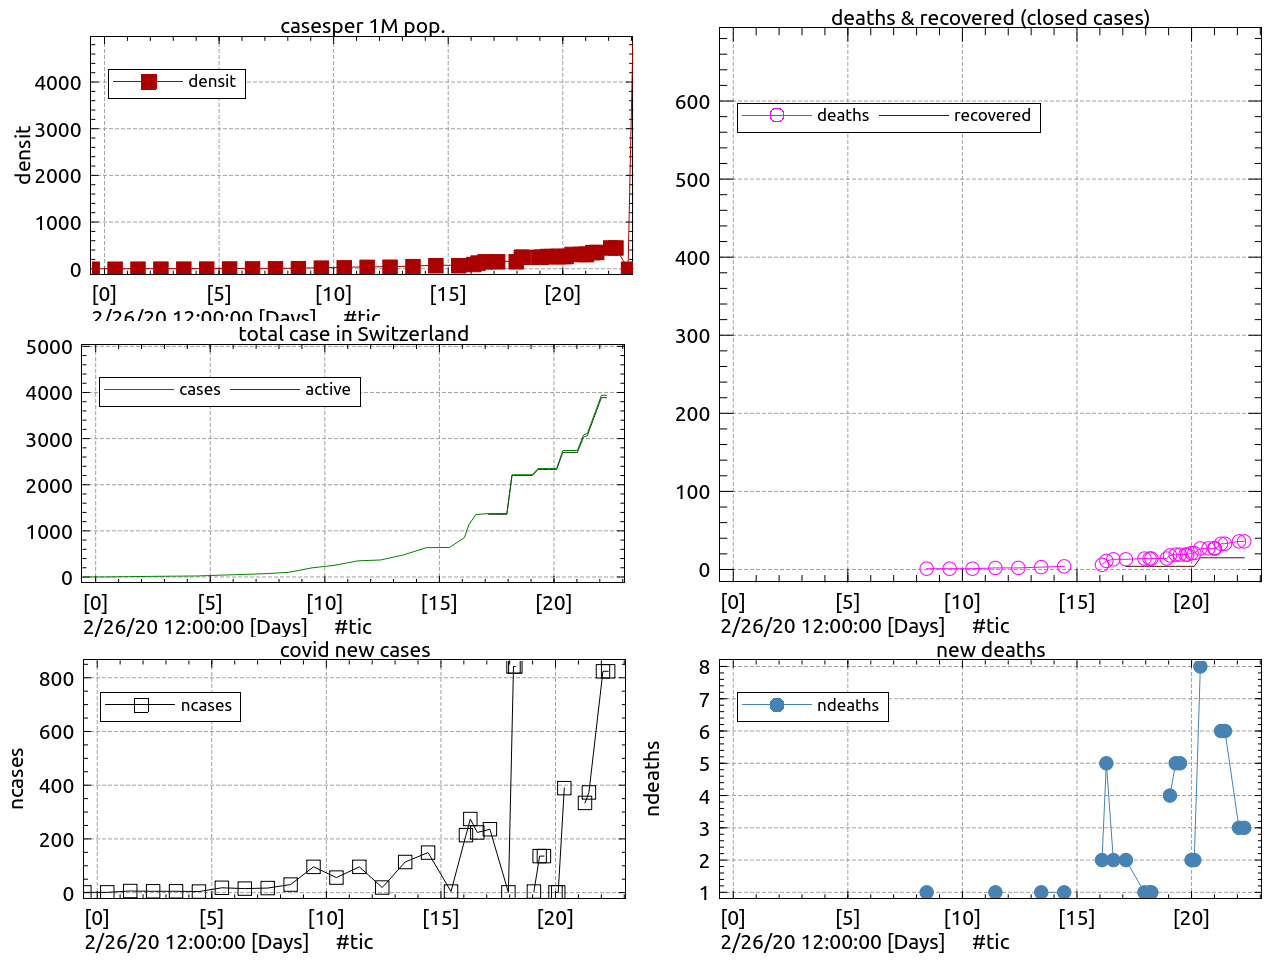
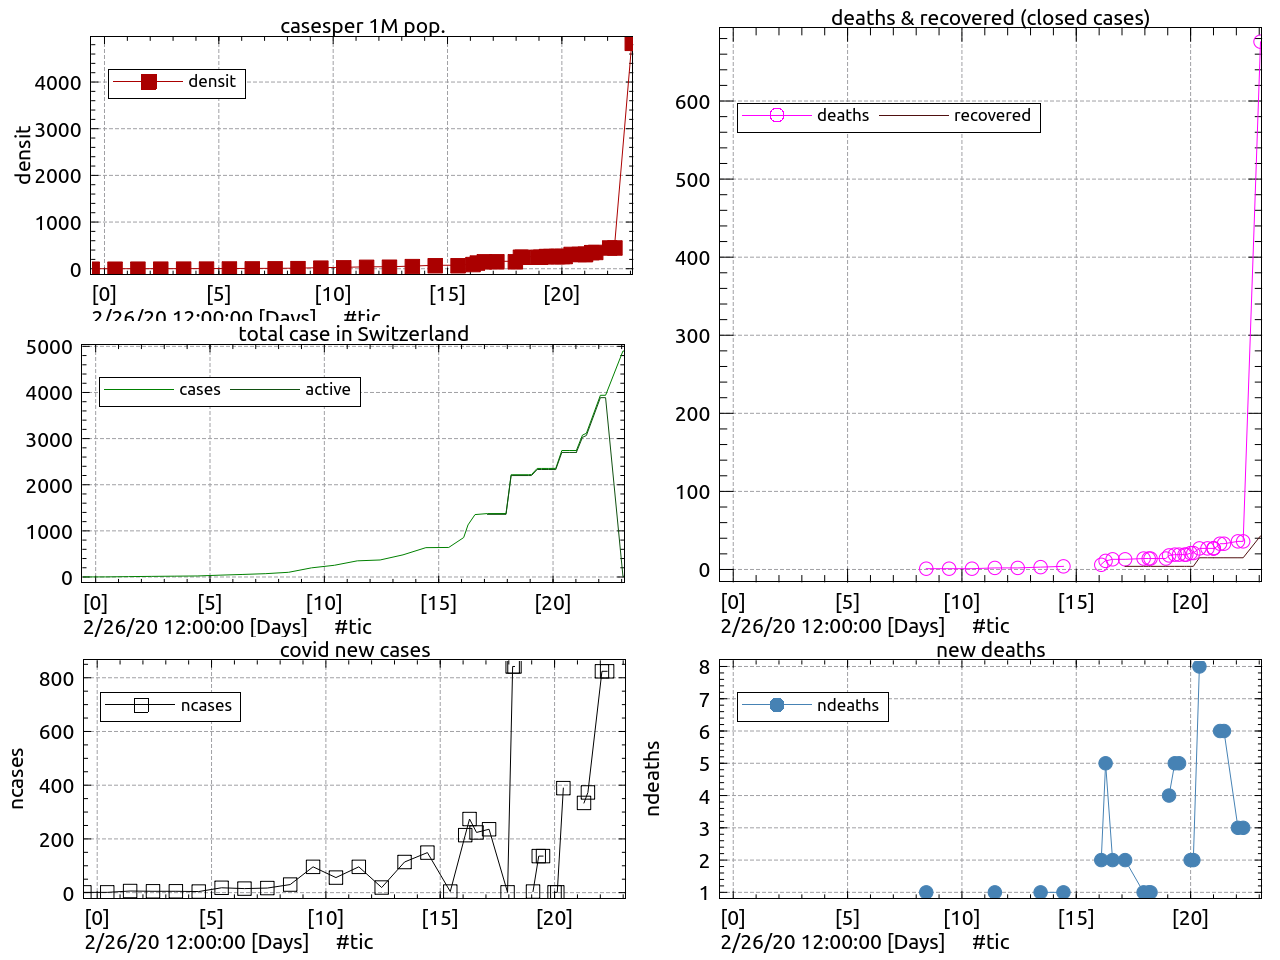
pandemy status on 03/20/20 15:29:55

diff --git a/README.md b/README.md
@@ -1,6 +1,6 @@
 # README: corona virus daily status in Switzerland ...
 
-## on 03/20/20 14:22:26 ([snapshot](https://ipfs.io/ipfs/QmY4pmA4H2abNWnWZpw9NNz1vS577dF9u4Ap2ZYt1Jh1GC))
+## on 03/20/20 15:29:55 ([snapshot](https://ipfs.io/ipfs/QmY4pmA4H2abNWnWZpw9NNz1vS577dF9u4Ap2ZYt1Jh1GC))
 
  4840 cases per 1M pop,<br>
  4898 Total cases in Switzerland (15 actives)
@@ -8,9 +8,19 @@
  +676 deaths,
  43 recovered (resurected ?)
 
-last update : <https://ipfs.blockringtm.ml/ipfs/Qmc4ytrMUSgxqriLofL7u18e9Uix12a11LTTUQzXcUqSfU/covid19.html>
+last update : <https://ipfs.blockringtm.ml/ipfs/QmcjfzMLYcZFjaSBYBUhYEd1FyqEzZGng3A13jxxLKRYkK/covid19.html>
+
 
 Every Sunday: 1:30pm 1:45pm Meditation & OM chanting ([#OMEKSAATH][OM]) CET https://www.facebook.com/events/138981234204300
+
+
+TODAY AND ALL THE FOLLOWING DAYS : AT [12:30H AND 21:00H][CLAP]
+to be solidaire and to encourage our medical workers for their protection and service,
+lets' get out on our balcony or at our windows and clap to express our immense gratitude
+Please pass this message arround and take care of yourself and love ones.
+
+[OM]: https://qwant.com/?q=%26g+%23OMEKSAATH
+[CLAP]: https://www.facebook.com/mgcombs/posts/10223045570354511?__cft__[0]=AZU1uoBTRJPo_ZEqs8vur5Vri1R96Mio1M-vFXGeuWxFhfQHMHY6_zYneCuXuez2Ojcj9K2Ph7AHwHYQvsmxphJqN-KWkpAuTph-dTy5h9pGEE-zRT6rqOZx5RfWRscw2vY&__tn__=%2CO%2CP-R
 
  ![charts](covid.png)
 
@@ -19,6 +29,7 @@ Every Sunday: 1:30pm 1:45pm Meditation & OM chanting ([#OMEKSAATH][OM]) CET http
 
 sources:
   - <https://twitter.com/BAG_OFSP_UFSP>
+  - <https://www.worldometers.info/coronavirus/country/switzerland/>
   - <https://www.bag.admin.ch/bag/fr/home/krankheiten/ausbrueche-epidemien-pandemien/aktuelle-ausbrueche-epidemien/novel-cov/situation-schweiz-und-international.html>
   - <https://en.wikipedia.org/wiki/2020_coronavirus_pandemic_in_Switzerland>
   - <https://www.who.int/emergencies/diseases/novel-coronavirus-2019/situation-reports/>
@@ -26,8 +37,8 @@ sources:
   - <https://michel47.github.io/covid19>
   - <https://github.com/michel47/covid19>
   - <https://duckduckgo.com/?q=switzerland+progression+coronavirus>
-  - <https://gateway.ipfs.io/ipfs/QmW1FtTyCVtYv71NvgdUenYxRhGkvBQM58c6B7kXbKqMvw>
+  - <https://gateway.ipfs.io/ipfs/QmSAFgdzPEQcHeEj59FYZQngW6qX9szaXx2hsxnucWKbkQ>
   - <https://gateway.ipfs.io/ipfs/QmY4pmA4H2abNWnWZpw9NNz1vS577dF9u4Ap2ZYt1Jh1GC>
-  - <https://gateway.ipfs.io/ipfs/Qmc4ytrMUSgxqriLofL7u18e9Uix12a11LTTUQzXcUqSfU>
+  - <https://gateway.ipfs.io/ipfs/QmcjfzMLYcZFjaSBYBUhYEd1FyqEzZGng3A13jxxLKRYkK>
   
 

diff --git a/covid19.md b/covid19.md
@@ -10,6 +10,7 @@
 - \[03/20/20]: /cases [QmUhwrMeVRT9V5dttpPa7zbToAinsNaH38BY47zoAMzR4P](https://cloudflare-ipfs.com/ipfs/QmY4pmA4H2abNWnWZpw9NNz1vS577dF9u4Ap2ZYt1Jh1GC) [data](/ipfs/QmcVT5hTUyCGKgeZfvvRzSPgXazPjWLMcG5gyH52NE7GKC/covid.yml),[csv](/ipfs/QmcVT5hTUyCGKgeZfvvRzSPgXazPjWLMcG5gyH52NE7GKC/covid.csv)
 - \[03/20/20]: /cases [QmR3cWmPDDQeuMLRy2HtLjqpEtTBJuXJQm39R5ViVuaVrV](https://cloudflare-ipfs.com/ipfs/QmY4pmA4H2abNWnWZpw9NNz1vS577dF9u4Ap2ZYt1Jh1GC) [data](/ipfs/Qmdod7WCFHfsumLtpfRbTFjY7rDX8PzrDk9SKGMqFQceRi/covid.yml),[csv](/ipfs/Qmdod7WCFHfsumLtpfRbTFjY7rDX8PzrDk9SKGMqFQceRi/covid.csv)
 - \[03/20/20]: 15/4898cases [QmW1FtTyCVtYv71NvgdUenYxRhGkvBQM58c6B7kXbKqMvw](https://cloudflare-ipfs.com/ipfs/QmY4pmA4H2abNWnWZpw9NNz1vS577dF9u4Ap2ZYt1Jh1GC) [data](/ipfs/QmZ7HPJFk1DFJiSFS2HK4xWz5ao7jbHCjLfMTT6PaPLAum/covid.yml),[csv](/ipfs/QmZ7HPJFk1DFJiSFS2HK4xWz5ao7jbHCjLfMTT6PaPLAum/covid.csv)
+- \[03/20/20]: 15/4898cases [QmSAFgdzPEQcHeEj59FYZQngW6qX9szaXx2hsxnucWKbkQ](https://cloudflare-ipfs.com/ipfs/QmY4pmA4H2abNWnWZpw9NNz1vS577dF9u4Ap2ZYt1Jh1GC) [data](/ipfs/QmQMxLXm8iYg9uVqaHWDTgd6GS2HPMgUXcbsirrtT5yRwi/covid.yml),[csv](/ipfs/QmQMxLXm8iYg9uVqaHWDTgd6GS2HPMgUXcbsirrtT5yRwi/covid.csv)
 - \[03/19/20]: 3888/3939cases [QmYaFJdczS8RAhbNCgTZH6fzpYk6zphpp1mLTbebTDKGUy](https://cloudflare-ipfs.com/ipfs/QmY4pmA4H2abNWnWZpw9NNz1vS577dF9u4Ap2ZYt1Jh1GC) [data](/ipfs/QmZBSfXg1hqQLAUfdtxP33Pyy4MvYjSu9PyyaAH7qUDGR4/covid.yml),[csv](/ipfs/QmZBSfXg1hqQLAUfdtxP33Pyy4MvYjSu9PyyaAH7qUDGR4/covid.csv)
 - \[03/19/20]: 3888/3939cases [QmWEacwbdMK642oLQ1Ddu6k4pHnPdWh3pJpNYFUMEV6mbf](https://cloudflare-ipfs.com/ipfs/QmY4pmA4H2abNWnWZpw9NNz1vS577dF9u4Ap2ZYt1Jh1GC) [data](/ipfs/QmTUabGFF3eA3ZfcHfwf649xLJu59pvVgErwGZnq4bwJ2c/covid.yml),[csv](/ipfs/QmTUabGFF3eA3ZfcHfwf649xLJu59pvVgErwGZnq4bwJ2c/covid.csv)
 - \[03/19/20]: 3888/3939cases [QmVVkeTjXbBGSTE1HnaEDLBuNDFPSjAjAG2sKdFcRyL5cg](https://cloudflare-ipfs.com/ipfs/QmY4pmA4H2abNWnWZpw9NNz1vS577dF9u4Ap2ZYt1Jh1GC) [data](/ipfs/QmPYhDh1vagW2K8To1tioauJ5sEmTJ2r5o5KnGSyaVVjro/covid.yml),[csv](/ipfs/QmPYhDh1vagW2K8To1tioauJ5sEmTJ2r5o5KnGSyaVVjro/covid.csv)

diff --git a/covid19u.md b/covid19u.md
@@ -79,3 +79,4 @@
 - \[03/20/20]: /cases [QmR3cWmPDDQeuMLRy2HtLjqpEtTBJuXJQm39R5ViVuaVrV](https://cloudflare-ipfs.com/ipfs/QmY4pmA4H2abNWnWZpw9NNz1vS577dF9u4Ap2ZYt1Jh1GC) [data](/ipfs/Qmdod7WCFHfsumLtpfRbTFjY7rDX8PzrDk9SKGMqFQceRi/covid.yml),[csv](/ipfs/Qmdod7WCFHfsumLtpfRbTFjY7rDX8PzrDk9SKGMqFQceRi/covid.csv)
 - \[03/20/20]: /cases [QmUhwrMeVRT9V5dttpPa7zbToAinsNaH38BY47zoAMzR4P](https://cloudflare-ipfs.com/ipfs/QmY4pmA4H2abNWnWZpw9NNz1vS577dF9u4Ap2ZYt1Jh1GC) [data](/ipfs/QmcVT5hTUyCGKgeZfvvRzSPgXazPjWLMcG5gyH52NE7GKC/covid.yml),[csv](/ipfs/QmcVT5hTUyCGKgeZfvvRzSPgXazPjWLMcG5gyH52NE7GKC/covid.csv)
 - \[03/20/20]: 15/4898cases [QmW1FtTyCVtYv71NvgdUenYxRhGkvBQM58c6B7kXbKqMvw](https://cloudflare-ipfs.com/ipfs/QmY4pmA4H2abNWnWZpw9NNz1vS577dF9u4Ap2ZYt1Jh1GC) [data](/ipfs/QmZ7HPJFk1DFJiSFS2HK4xWz5ao7jbHCjLfMTT6PaPLAum/covid.yml),[csv](/ipfs/QmZ7HPJFk1DFJiSFS2HK4xWz5ao7jbHCjLfMTT6PaPLAum/covid.csv)
+- \[03/20/20]: 15/4898cases [QmSAFgdzPEQcHeEj59FYZQngW6qX9szaXx2hsxnucWKbkQ](https://cloudflare-ipfs.com/ipfs/QmY4pmA4H2abNWnWZpw9NNz1vS577dF9u4Ap2ZYt1Jh1GC) [data](/ipfs/QmQMxLXm8iYg9uVqaHWDTgd6GS2HPMgUXcbsirrtT5yRwi/covid.yml),[csv](/ipfs/QmQMxLXm8iYg9uVqaHWDTgd6GS2HPMgUXcbsirrtT5yRwi/covid.csv)
